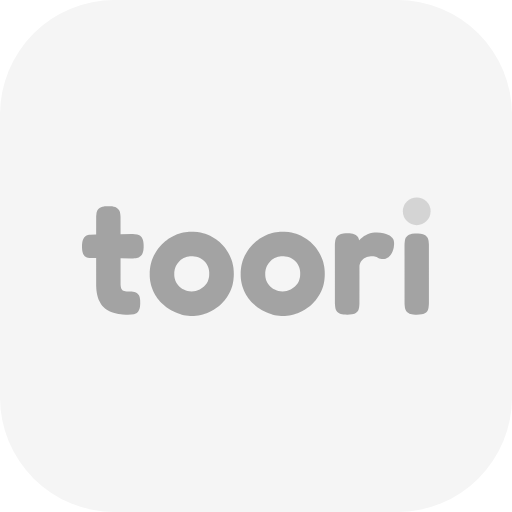
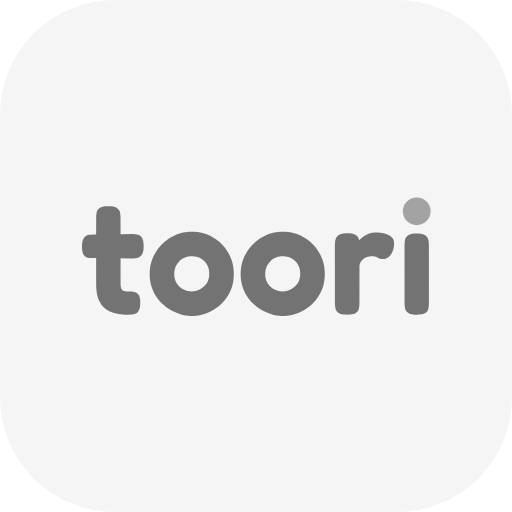
fix: 다른 계정 알림 아이콘을 조금 진한 회색(G3)으로 바꾸기
#198에서 임의로 고른 흐린 회색(G1) 대신 현동훈이 고른 G3로 바꾼다.

Changed region(s): [[0.1562, 0.375, 0.8438, 0.625]]

diff --git a/docs/roadmap.md b/docs/roadmap.md
@@ -101,7 +101,7 @@
 | ✅ | 정찬형의 `@portone/browser-sdk` 설치 승인(#16, #168) | 현동훈 |
 | ✅ | 웹 푸시 VAPID 키 (K6). `.env.local` 공유, Vercel Production·Preview 등록(11/1). 값이 맞는지는 W16 첫 발송 때 확인한다 | 현동훈 |
 | ⬜ | 시드 다시 넣기(`npm run db:seed -- --yes`). 11/2에 넣은 3주 시험 매물이 끝나기 전, 11/20쯤 | 현동훈 |
-| ✅ | 다른 계정 알림용 회색 아이콘을 `public/brand/app-icon/toori-app-icon-gray-*`에 넣기(11/2, #131). 꺼진 느낌이 나게 흐린 회색이고, 쓰는 법은 `docs/brand.md` "다른 계정 알림 아이콘" | 현동훈 |
+| ✅ | 다른 계정 알림용 회색 아이콘을 `public/brand/app-icon/toori-app-icon-gray-*`에 넣기(11/2, #131). 꺼진 느낌이 나는 회색(G3)이고, 쓰는 법은 `docs/brand.md` "다른 계정 알림 아이콘" | 현동훈 |
 | ✅ | `pg_cron`·`pg_net` 켜기 (K7), `CRON_SECRET` (K8). 개발 DB에서 켜고, Vercel Production·Preview에 등록(11/2). `.env.local` 새 공유본은 11/2 단톡방으로 전달함 | 현동훈 |
 | ⬜ | 정산 주기·이의제기 처리 방식 결정 | 현동훈 |
 | ⬜ | 2단계 중: 네이버 개발자 앱 등록과 로그인 검수 신청 (K9, 검수에 시간이 걸림) | 현동훈 |

diff --git a/docs/announcements.md b/docs/announcements.md
@@ -19,7 +19,7 @@ nnoinn이 팀원에게 알릴 내용을 PR과 함께 이 파일에 추가한다.
 - 할 일: 정찬형은 #199 다음 #200. 강규민·정민석은 없음
 
 ## 2026-11-02 · 강규민 (다른 계정 알림 아이콘)
-- **다른 계정 알림용 회색 아이콘을 넣었다(#131).** `public/brand/app-icon/toori-app-icon-gray-192.png` 등. 흰 앱 아이콘과 모양은 같고, 꺼진 느낌이 나게 흐린 회색이다
+- **다른 계정 알림용 회색 아이콘을 넣었다(#131).** `public/brand/app-icon/toori-app-icon-gray-192.png` 등. 흰 앱 아이콘과 모양은 같고, 꺼진 느낌이 나는 회색이다
 - 지금 계정 알림의 아이콘과 같은 모양끼리 짝을 맞춰 쓴다. 둥근 모서리는 `toori-app-icon-light-192.png` ↔ `toori-app-icon-gray-192.png`, 정사각형은 `web/pwa-icon-light-192.png` ↔ `toori-app-icon-gray-square-192.png`. 자세한 것은 `docs/brand.md` "다른 계정 알림 아이콘"
 - 할 일: 강규민은 W16 `public/sw.js`에서 다른 계정 알림의 `icon`에 이 파일을 쓴다. 정찬형·정민석은 없음
 

diff --git a/docs/brand.md b/docs/brand.md
@@ -86,9 +86,9 @@ import { Logo } from '@/components/ui/logo';
 ## 다른 계정 알림 아이콘(회색)
 
 - 한 기기에서 고객·원장님 알림을 모두 받을 때, 지금 들어와 있지 않은 계정의 알림에 써요(11/1 결정, #131).
-- 꺼진 느낌이 나게 흐린 회색으로 만들었어요(11/2).
+- 꺼진 느낌이 나는 회색으로 만들었어요(11/2, 후보 4가지 중 G3).
   - 모양과 크기는 흰 앱 아이콘(`-light`)과 같고 색만 달라요.
-  - 칸 `#F5F5F5`, 글자 `#A3A3A3`, i 점 `#D4D4D4`예요. 앱의 회색(`muted`)과 같은 줄이에요.
+  - 칸 `#F5F5F5`, 글자 `#737373`, i 점 `#A3A3A3`예요. 앱의 회색(`muted`, `muted-foreground`)과 같은 줄이에요.
 - 지금 계정 알림의 아이콘과 같은 모양끼리 짝을 맞춰 써요.
   - 둥근 모서리: `app-icon/toori-app-icon-light-192.png` ↔ `app-icon/toori-app-icon-gray-192.png`
   - 정사각형: `web/pwa-icon-light-192.png` ↔ `app-icon/toori-app-icon-gray-square-192.png`
